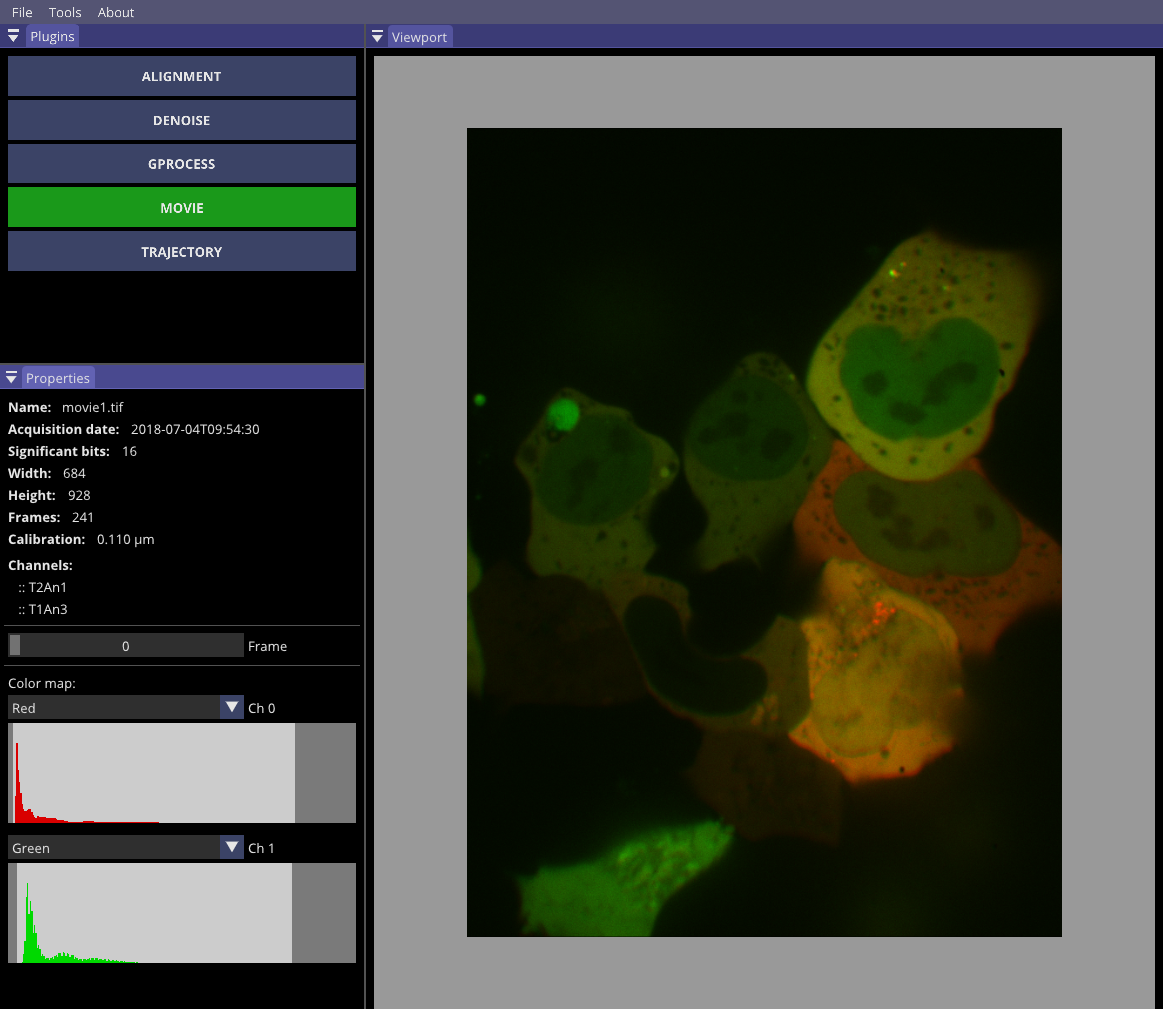
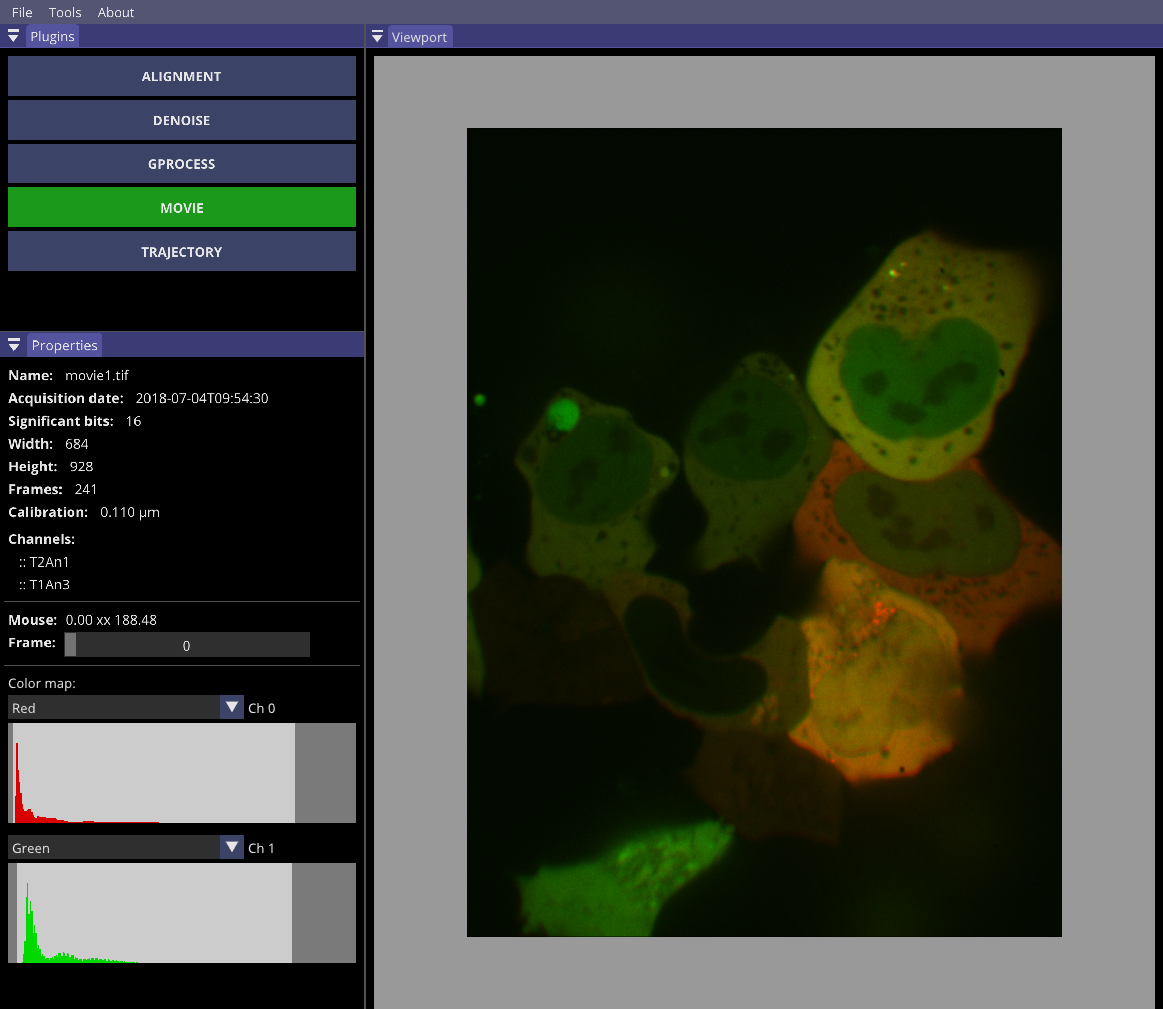
New documenation images :: documentation get started on linux and mac

Changed region(s): [[0.0, 0.3072, 0.3095, 0.6759], [0.1857, 0.6145, 0.2786, 0.6759]]

diff --git a/docs/started.html b/docs/started.html
@@ -18,6 +18,64 @@
 
         <div class="information">
             <h1>Getting started</h1>
+
+            GP-Tool was written and tested on Linux and Windows. As I no longer posses a Mac computer, I don't have the means to tested it, but it should be possible compile and use it in principle. For these reason, in the next sections I present how to get started in Windows and Linux.
+
+            <h2>Binary packages</h2>
+
+            <p>Installation packages generated using CPack via CMake are provided for Windows (64 bits) and Linux (Arch distribution). Both packages can be found <a href="https://github.com/guilmont/GP-Tool/tree/master/packages"> here</a>. The installation procedure consists of simply uncompressing the contents of this package.</p>
+
+            <p>I'm aware that the Windows package might run under problems concerning security, as it is an third party binary file to be executed. In some cases it is a simple matter of getting permission from the administrator to execute. Unfortunately, Windows will block independently of granted permissions in other situations. I'm studying a solution for this second issue. In the meantime, I suggested compiling GP-Tool from source as explained in the following section.</p>
+
+            <p>Considering the Linux binary package. It works fine under Linux distros parented into the Arch Linux family. It is possible that it might not work under the Debian family, for example. Unfortunately, for those cases, the user might need to compile GP-Tool from source code as explained in the following section.</p>
+
+
+            <h2>Compiling from source code</h2>
+
+            <p>The procedure to install GP-Tool under Linux, Windows and MacOS are very similar. In all cases, the user will need to have pre-installed a modern version CMak, an OS specific compiler and Git. <a href="https://cmake.org/download/" target="_blank">CMake</a> is an open-source cross-platform software to build programs and libraries. Popular choices of compilers are GCC/G++ for Linux, clang for MacOS and MSVC for Windows. Just be sure to have a relatively modern compiler as the standard c++17 is required for compilation. Finally, <a href="https://git-scm.com/downloads" target="_blank">Git</a> is a development tracker that we will use to clone the source code from GitHub.</p>
+
+            <p>With the list of pre-requisites fullfiled, the user navigate to any directory of preference using the the terminal and clone the GitHub repository along with all its dependencies using the following command:</p>
+
+            <div class="code">
+                <p>git clone --recurse-submodules -j4 https://github.com/guilmont/GP-Tool.git</p>
+            </div>
+
+            <p>Once the cloning is completed, use the explorer and navigate until cloned folder. There create a folder called "build", in which CMake will do its magic. From here, the commands will differ slightly, hence I will split in subsections.</p>
+
+            <h3>Linux and MacOS</h3>
+
+            <p>Using the terminal, navigate until recently created bulid folder. There are only to options that are relevant for the average user, hence I'll focus on those: CMAKE_INSTALL_PREFIX and CMAKE_BUILD_TYPE. In the terminal write:</p>
+
+            <div class="code">
+                <p>cmake .. -DCMAKE_BUILD_TYPE=Release -DCMAKE_INSTALL_PREFIX=whatever_path_you_want_to_install</p>
+            </div>
+
+            <p>Then press enter. An example of path for installation would be "/home/user/Desktop/GP-Tool", so GP-Tool will be installed in the Desktop. For example...</p>
+
+
+            <img src="./images/linuxSource.png" alt="linuxSource" width=95%>
+
+            <p>Then, to compile and install GP-Tool:</p>
+
+            <div class="code">
+                <p>make -j install</p>
+            </div>
+
+            <p>Like so...</p>
+
+            <img src="./images/linuxSourceMake.png" alt="linuxSourceMake" width=95%>
+
+            <p>Once installation is completed, simply navigate using the terminal or the explorer to the bin folder within the installation prefix and open the executable.</p>
+
+            <h3>Windows</h3>
+
+            <p>I'm travelling and away from my Windows machine. Once I'm back, I'll provide the guided steps ;)</p>
+
+
+            <h2>Hi-DPI screens</h2>
+
+            <p>For users with HI-DPI screens, GP-Tool provides a configuration for scale up the size of all the components by a factor 2. To enable this feature, click on "Set HIDPI" under Tools in the GP-Tool menu bar.</p>
+
         </div>
     </main>
 

diff --git a/docs/movie.html b/docs/movie.html
@@ -19,31 +19,24 @@
         <div class="information">
             <h1>Movie plugin</h1>
 
-            <p>Once GP-Tool is opened, the user can load TIFF movies via Files > Open movies... or by the key com-
-                bination "Ctrl+O". There are 3 formats of metadata that GP-Tool can parse: basic ImageJ, extended
-                ImageJ and OME. GP-Tool can also handle movies compressed via LZW algorithm.</p>
+            <p>With the Movie plugin, the user can load TIFF movies with 2 different mechanisms:</p>
 
-            <img src="./images/movieLoad.png" alt="loadMovies" width=60%>
+            <ul>
+                <li><i>Files > Open movie...</i></li>
+                <li>Ctrl + O</li>
+            </ul>
 
-            <p>This selection will open the following file dialog, where the user will be able to navigate until the
-                desired movie. For convenience, we can write or paste the address directly at the path box (red arrow)
-                or drag the file/folder into GP-Tool main window. Open the movie by simply clicking on it.</p>
+            <p>Either option will open the following file dialog, where the user will be able to navigate until the desired movie. For convenience, we can write or paste the address directly at the path box (red arrow) or drag the file/folder into GP-Tool main window. Open the movie by simply clicking on it.</p>
 
             <img src="./images/openDialog.png" alt="openDialog" width=60%>
 
-            <p>Loading the movie might take several seconds depending on size, compression and computer in use.
-                Once the movie is finally loaded, the user will be presented with an interactive view port, where we can
-                zoom in or out and move the image around. Similarly, the properties panel will display basic metadata
-                if available. These are movie name, acquisition date, number of bits, image height and width, the
-                3number of frames, calibration from pixels into pertinent units and the name of each channel. We also
-                have a slider from which we can change the frame displayed in the view port.</p>
+            <p>Loading the movie might take several seconds depending on size, compression and computer in use. There are 3 formats of metadata that GP-Tool can parse: basic ImageJ, extended ImageJ and OME. GP-Tool can also handle movies compressed via LZW algorithm. </p>
+
+            <p>Once the movie is finally loaded, the user will be presented with an interactive viewport. Similarly, the properties panel will display basic metadata if available. These are movie name, acquisition date, number of bits, image height and width, the number of frames, calibration from pixels into pertinent units and the name of each channel. We also have the mouse pointer location in pixels relative to the image present in the viewport. Furthermore, a slider with which we can change the frame displayed in the viewport. Differently, the user can navigate frames with left-right arrows once the mouse cursor is placed within the boundaries of the viewport.</p>
 
             <img src="./images/moviePlugin.png" alt="moviePlugin" width=60%>
 
-            <p>The color map allows the user to choose from a selection of colors, which look-up table will be
-                use for each channel. Differently, we also can opt for none, hence hiding the corresponding channel.
-                Finally, by dragging darker rectangles in either side of histogram widgets, we can set different and
-                channel independent contrast.</p>
+            <p>The color map allows the user to choose from a selection of colors, which look-up table will be use for each channel. Differently, we also can opt for none, hence hiding the corresponding channel. Finally, by dragging darker rectangles in either side of histogram widget, we can set different contrast ranges for each channel independently.</p>
 
         </div>
     </main>

diff --git a/docs/css/main.css b/docs/css/main.css
@@ -18,10 +18,16 @@ header {
 
 h1{
     font-size: 1.6rem;
+    padding-bottom: 0.5rem;
 }
 
 h2 {
     font-size: 1.3rem;
+    padding: 1.5rem 0 0.3rem 0;
+}
+
+h3 {
+    padding: 1rem 0 0.5rem 0;
 }
 
 main {
@@ -85,8 +91,15 @@ div.explorer a:hover {
 }
 
 div.information {
-    padding: 1rem;
+    padding: 1rem 1rem 3rem 1rem;
     width: 85%;
     overflow-y: auto;
     overflow-x: hidden;
+}
+
+div.code {
+    background:rgb(226, 224, 224);
+    font-style: italic;
+    border-radius: 1rem;
+
 }

diff --git a/docs/index.html b/docs/index.html
@@ -37,7 +37,7 @@
 
             <h2> Nature Communications</h2>
 
-            <h3> Precise measurements of chromatin diffusion dynamics by modeling using Gaussian processes - GM Oliveira et al</h3>
+            <h3> Precise measurements of chromatin diffusion dynamics by modeling using Gaussian processes - <i>GM Oliveira et al</i></h3>
 
             <a href="http://doi.org/10.1038/s41467-021-26466-7">Access here</a>
 
